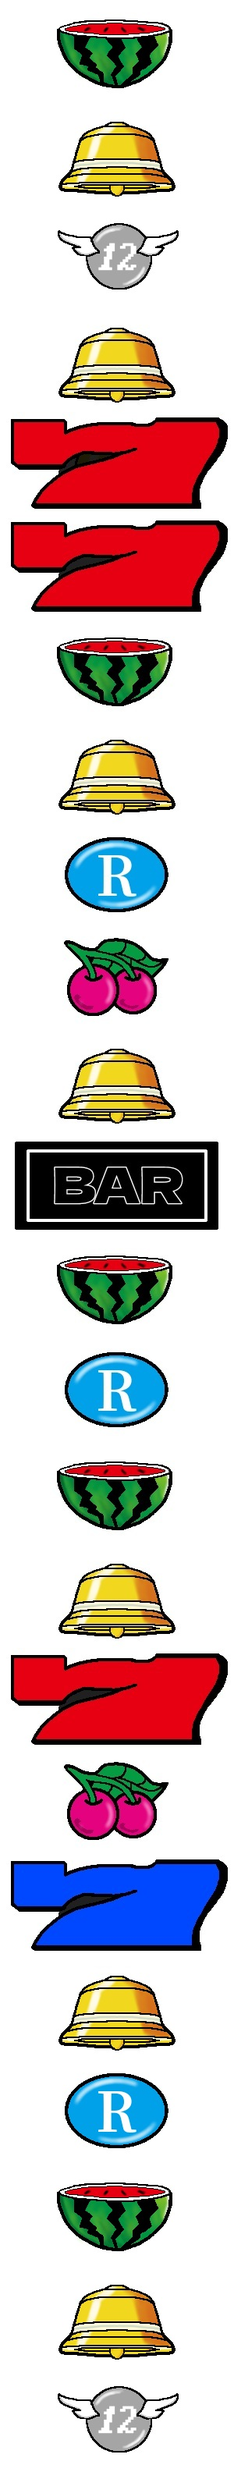
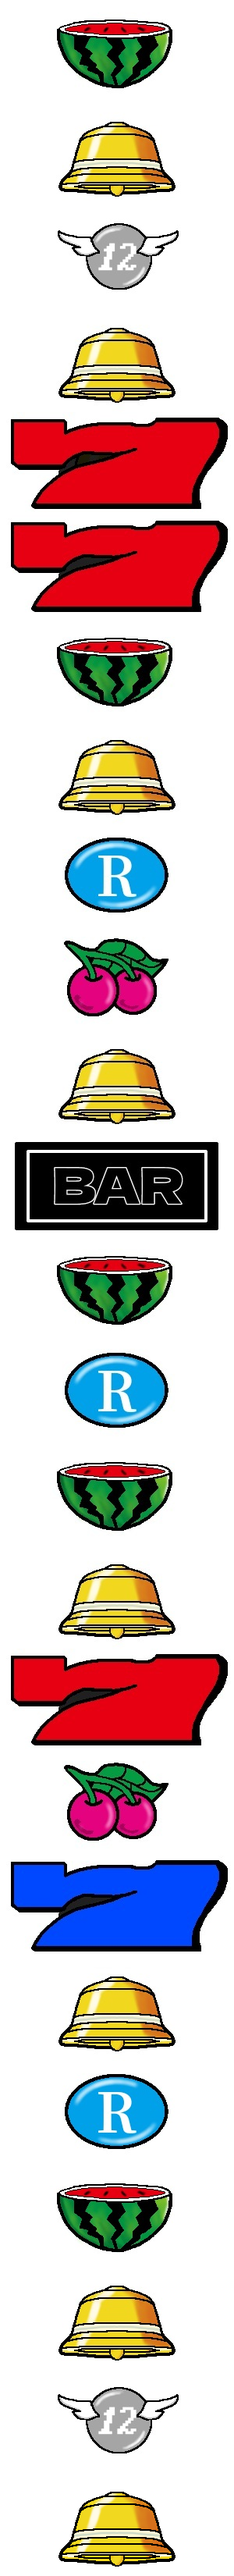
WIP

diff --git a/src/ReelCtrl.cpp b/src/ReelCtrl.cpp
@@ -1,25 +1,39 @@
 #include "ReelCtrl.hpp"
+#include "GameConst.hpp"
 #include <stdexcept>
 #include <string_view>
 #include <unordered_map>
+#include <cmath>
 
 using namespace std;
 
-ReelCtrl to_ReelCtrl(string_view str){
-    static const unordered_map<string_view, ReelCtrl> table{
-        {"suikaA",  ReelCtrl::SuikaA},
-        {"suikaB",  ReelCtrl::SuikaB},
-        {"cherry",  ReelCtrl::Cherry},
-        {"bell",    ReelCtrl::Bell},
-        {"replay",  ReelCtrl::Replay},
-        {"miss",    ReelCtrl::Miss},
-        {"redBB",   ReelCtrl::RedBB},
-        {"blueBB",    ReelCtrl::BlueBB},
-        {"RB",      ReelCtrl::RB}
+ReelCtrlFlag to_ReelCtrlFlag(string_view str){
+    static const unordered_map<string_view, ReelCtrlFlag> table{
+        {"suikaA",  ReelCtrlFlag::SuikaA},
+        {"suikaB",  ReelCtrlFlag::SuikaB},
+        {"cherry",  ReelCtrlFlag::Cherry},
+        {"bell",    ReelCtrlFlag::Bell},
+        {"replay",  ReelCtrlFlag::Replay},
+        {"miss",    ReelCtrlFlag::Miss},
+        {"redBB",   ReelCtrlFlag::RedBB},
+        {"blueBB",    ReelCtrlFlag::BlueBB},
+        {"RB",      ReelCtrlFlag::RB}
     };
 
     if (auto it = table.find(str); it != table.end())
         return it->second;
 
-    throw runtime_error("Unknown ReelCtrl: " + string(str));
+    throw runtime_error("Unknown ReelCtrlFlag: " + string(str));
 }
+
+void ReelCtrl::init(){};
+void ReelCtrl::leftCtrl(){
+    leftReel.ReelScrollY -= GameConst::scrollSpeed;
+    if (leftReel.ReelScrollY < 121){
+        leftReel.ReelScrollY += GameConst::symbollHeight * GameConst::nsymbol;
+    }
+};
+
+int Reel::symbolIndex(){
+    return ReelScrollY / GameConst::symbollHeight + 1;
+};

diff --git a/src/Renderer.cpp b/src/Renderer.cpp
@@ -1,20 +1,37 @@
-#include "Game.hpp"
+#include "GameConst.hpp"
 #include "Renderer.hpp" 
 #include "SDL3_image/SDL_image.h"
 
 void Renderer::init(){
     window = SDL_CreateWindow(
         GameConst::windowTitle,            // window title
-        640,                                   // width, in pixels
-        480,                                   // height, in pixels
+        900,                                   // width, in pixels
+        418,                                   // height, in pixels
         0                                  // flags - see below  prev: SDL_WINDOW_OPENGL
     );
     renderer = SDL_CreateRenderer(window, nullptr);
-
-    leftReel = IMG_LoadTexture(renderer, "../assets/img/left_reel.png");
+    leftReel = IMG_LoadTexture(renderer, "../asset/img/left_reel.png");
 }
 
-void Renderer::update(){}
+void Renderer::reelDraw(SDL_Texture* reelImg, const float reelScrollY, const SDL_FRect dst){
+    SDL_FRect src{
+    0,                                                                  // x
+    reelScrollY,                                                        // y
+    GameConst::symbolWidth,                                             // w
+    GameConst::symbollHeight * 3 + GameConst::symbollHeight / 6.0       // h
+    };
+
+    SDL_RenderTexture(renderer, reelImg, &src, &dst);
+};
+
+void Renderer::update(const float leftReelScrollY){
+    SDL_RenderClear(renderer);
+
+    // Render Left reel
+    reelDraw(leftReel , leftReelScrollY, GameConst::leftDst);
+
+    SDL_RenderPresent(renderer);
+}
 
 void Renderer::exit(){
     SDL_DestroyRenderer(renderer);

diff --git a/include/Game.hpp b/include/Game.hpp
@@ -1,25 +1,15 @@
 #pragma once
-#include <filesystem>
-#include <type_traits>
 #include "InputManager.hpp"
+#include "ReelCtrl.hpp"
 #include "Renderer.hpp"
 #include "FlagManager.hpp"
-#include "SDL3/SDL_events.h"
-
-using namespace std;
-namespace fs = filesystem;
-
-struct GameConst{
-    static inline const char* windowTitle = "Angel12";
-    static inline const fs::path rootPath = PROJECT_ROOT;
-    static inline const double timestep = 1.00 / 60.00;  // 60 fps
-};
 
 class Game{
 private:
     FlagLottery flagDrawer;
     Renderer renderer;
     InputManager inputManager;
+    ReelCtrl reelCtrl;
 
     bool running;
     void update();
@@ -27,6 +17,4 @@ public:
     void init();
     void run();
     void exit();
-
-    void runTest();
 };

diff --git a/include/GameConst.hpp b/include/GameConst.hpp
@@ -1,0 +1,25 @@
+#pragma once
+#include <filesystem>
+#include "SDL3_image/SDL_image.h"
+
+using namespace std;
+namespace fs = filesystem;
+
+namespace GameConst{
+    inline constexpr const char* windowTitle = "Angel12";
+    inline fs::path rootPath = PROJECT_ROOT;
+
+    inline constexpr int symbolWidth = 300;
+    inline constexpr int symbollHeight = 132;
+
+    inline constexpr double timestep = 1.00 / 119.60;
+    inline constexpr int nsymbol = 21;
+    inline constexpr float scrollSpeed = nsymbol * symbollHeight / 0.85 * timestep;
+
+    inline constexpr SDL_FRect leftDst{
+        0, // x
+        0, // y
+        GameConst::symbolWidth,  // w
+        GameConst::symbollHeight * 3 + GameConst::symbollHeight / 6.0   // h
+    };
+};

diff --git a/src/Game.cpp b/src/Game.cpp
@@ -39,7 +39,7 @@ void Game::run(){
             update();
             inputManager.clear();
         }
-        renderer.update();
+        renderer.update(reelCtrl.leftReel.ReelScrollY);
     }
 };
 
@@ -51,23 +51,7 @@ void Game::update(){
     if(inputManager.state().quit == true){
         running = false;
     }
+
+    reelCtrl.leftCtrl();
 };
 
-void Game::runTest(){
-        if (!SDL_Init(SDL_INIT_VIDEO)) {
-        SDL_Log("SDL_Init failed: %s", SDL_GetError());
-    }
-
-    SDL_Window* window = SDL_CreateWindow(
-        "Angel12",
-        1280,
-        720,
-        0
-    );
-
-    if (!window) {
-        SDL_Log("SDL_CreateWindow failed: %s", SDL_GetError());
-    }
-
-    SDL_Delay(5000);
-}

diff --git a/include/Renderer.hpp b/include/Renderer.hpp
@@ -1,20 +1,24 @@
 #pragma once
-#include "SDL3/SDL.h"
-#include "SDL3/SDL_events.h"
-#include "SDL3/SDL_main.h"
+#include "GameConst.hpp"
 #include "SDL3/SDL_render.h"
-#include "SDL3/SDL_surface.h"
 
 class Renderer{
 private:
     SDL_Window* window;
     SDL_Renderer* renderer; 
+    
+    SDL_FRect src;
+    SDL_FRect dst;
 
     SDL_Texture* leftReel;
 
+    void reelDraw(SDL_Texture* reelImg, const float reelScrollY, const SDL_FRect dst);
+
 public:
     void init();
-    void update();
+
+    void setScrollY();
+    void update(const float leftReelScrollY);
     void exit();
 
     void initTest();

diff --git a/include/ReelCtrl.hpp b/include/ReelCtrl.hpp
@@ -1,8 +1,10 @@
 #pragma once
+#include "GameConst.hpp"
+#include <future>
 #include <string_view>
 using namespace std;
 
-enum class ReelCtrl{
+enum class ReelCtrlFlag{
     Replay,
     Cherry,
     SuikaA,
@@ -14,4 +16,20 @@ enum class ReelCtrl{
     BlueBB
 };
 
-ReelCtrl to_ReelCtrl(string_view str);
+ReelCtrlFlag to_ReelCtrlFlag(string_view str);
+
+class Reel{
+public:
+    float ReelScrollY = GameConst::symbollHeight * 4;
+    int symbolIndex();
+};
+
+class ReelCtrl{
+public:
+    Reel leftReel;
+    Reel centerReel;
+    Reel rightReel;
+
+    void init();
+    void leftCtrl();
+};

diff --git a/src/FlagManager.cpp b/src/FlagManager.cpp
@@ -14,7 +14,7 @@ vector<Flag> FlagLottery::load_flags(const toml::table& tables, string_view key)
         flag.name = table->at("name").value<string_view>().value();
         flag.payout = table->at("payout").value<int>().value();
         flag.allocateNum = table->at("allocateNum").value<int>().value();
-        flag.ctrl = to_ReelCtrl(table->at("ctrl").value<string_view>().value());
+        flag.ctrl = to_ReelCtrlFlag(table->at("ctrl").value<string_view>().value());
 
         flags.push_back(std::move(flag));
     }

diff --git a/include/FlagManager.hpp b/include/FlagManager.hpp
@@ -13,14 +13,14 @@ struct Flag{
     string name;
     int allocateNum;
     int payout;
-    ReelCtrl ctrl;
+    ReelCtrlFlag ctrl;
 };
 
 inline const Flag miss{
     .name = "miss",
     .allocateNum = 65536,
     .payout = 0,
-    .ctrl = ReelCtrl::Miss
+    .ctrl = ReelCtrlFlag::Miss
 };
 
 vector<Flag> load_flags(const toml::table& tables, string_view key);
